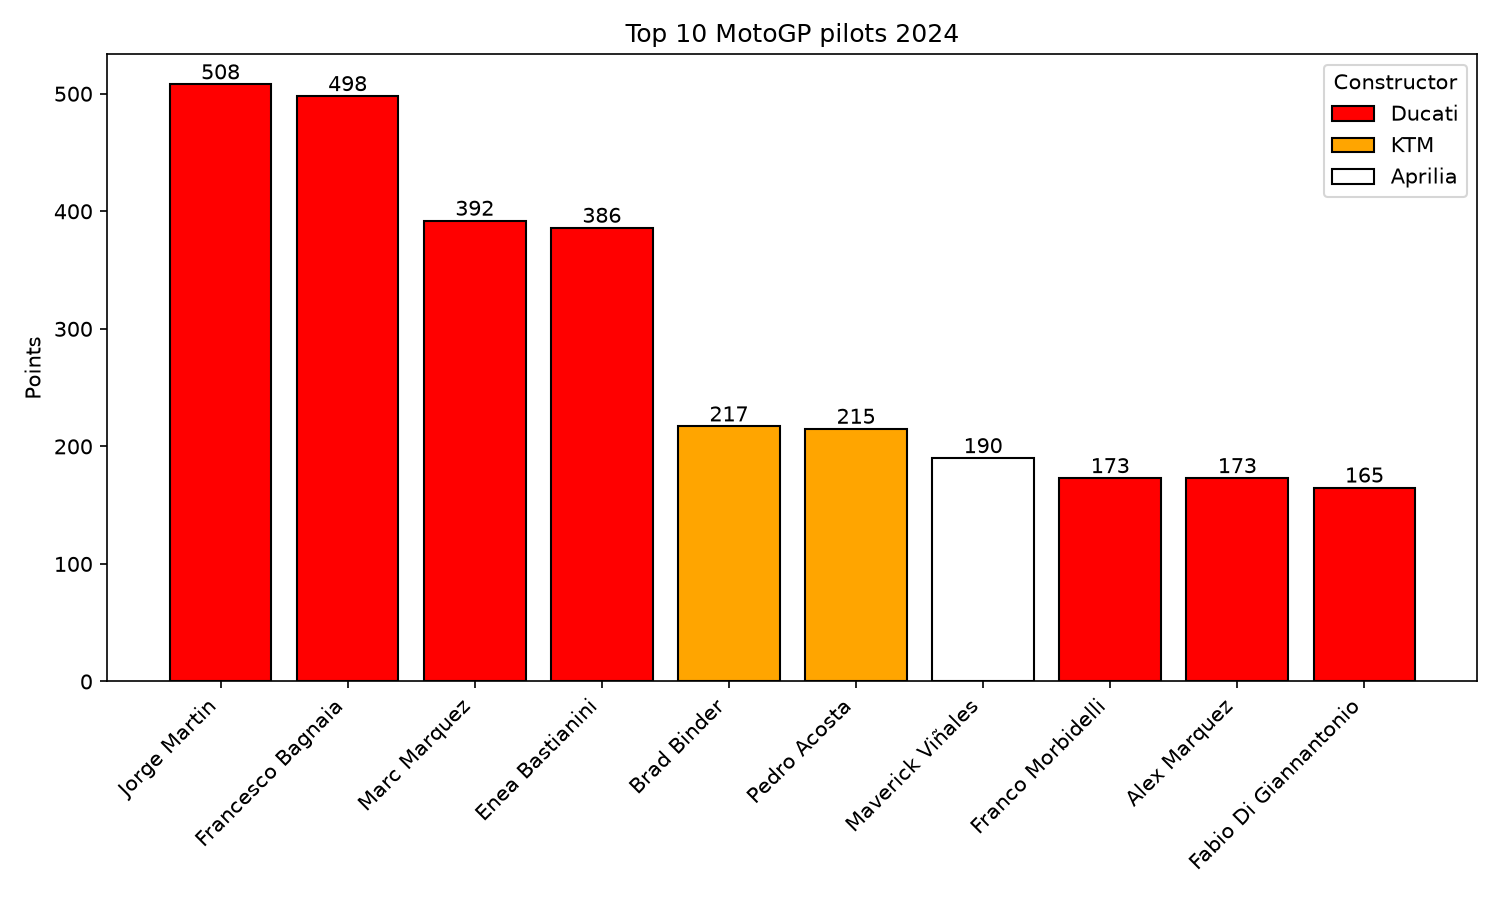
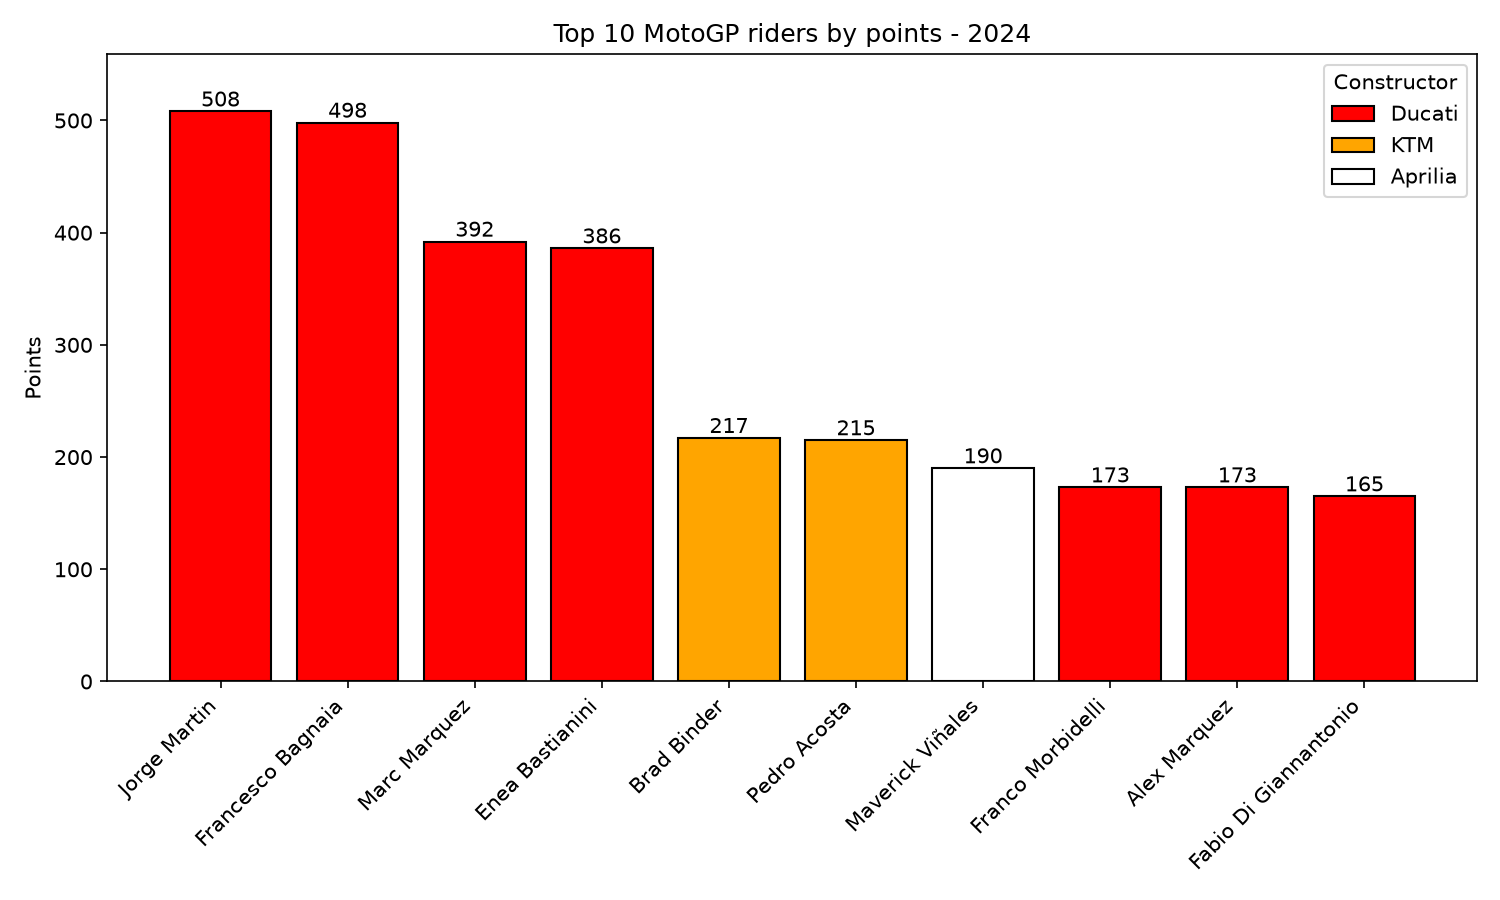
fixed some code, added all example charts in visualizations

diff --git a/src/visualization/charts.py b/src/visualization/charts.py
@@ -17,7 +17,7 @@ BASE_COLORS = {
     "Honda": "black",
 }
 
-FALLBACK_COLORS = ["tab:gree", "tab:purple", "tab:brown", "tab:pink", "tab:cyan", "tab:olive"]
+FALLBACK_COLORS = ["tab:green", "tab:purple", "tab:brown", "tab:pink", "tab:cyan", "tab:olive"]
 
 def available_years():
     years = []
@@ -74,13 +74,13 @@ def top_riders_chart(df, category, year, n=10):
     for name, color in legend_items.items():
         patch_list.append(Patch(facecolor=color, edgecolor="black", label=name))
 
-    fig, ax = plt.subplot(figsize=(10, 6))
+    fig, ax = plt.subplots(figsize=(10, 6))
     bars = ax.bar(top.index, top.values, color=bar_colors, edgecolor="black")
     ax.bar_label(bars)
     ax.margins(y=0.1)
     ax.set_title(f"Top {len(top)} {category} riders by points - {year}")
     ax.set_ylabel("Points")
-    ax.legend(handles=patch_list, list="Constructor")
+    ax.legend(handles=patch_list, title="Constructor")
     plt.setp(ax.get_xticklabels(), rotation=45, ha="right")
     fig.tight_layout()
     return fig
